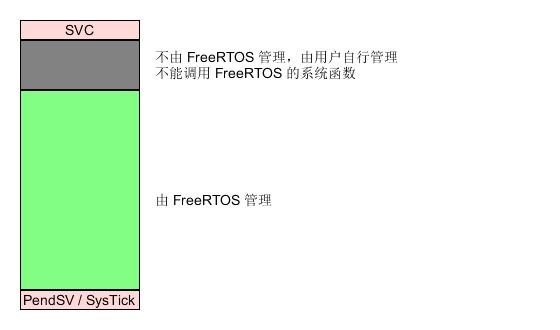
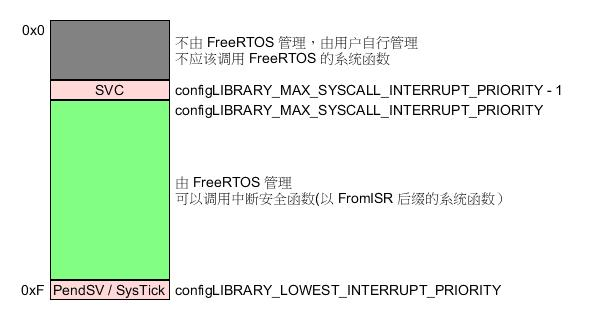
fixed issue

Changed region(s): [[0.0304, 0.0625, 0.9411, 0.9375], [0.9411, 0.25, 0.9714, 0.2812]]

diff --git a/FreeRTOS/Markdown/task_start_scheduler.md b/FreeRTOS/Markdown/task_start_scheduler.md
@@ -10,56 +10,64 @@
 
  1. 创建 IDLE 和 Tmr Svc 任务
 
-这两个任务是系统提供的默认服务。
+    这两个任务是系统提供的默认服务。
 
  2. 关闭中断
 
-此处关闭中断是为了在调度器启动的过程中不会被中断打断，在调度器启动成功后 FreeRTOS 会自动打开中断。
+    此处关闭中断是为了在调度器启动的过程中不会被中断打断，在调度器启动成功后 FreeRTOS 会自动打开中断。
 
-对于 **Cortex-M**，开关中断的代码实现如下：
+    对于 **Cortex-M**，开关中断的代码实现如下：
 
-``` C
-static portFORCE_INLINE void vPortRaiseBASEPRI( void )
-{
-uint32_t ulNewBASEPRI = configMAX_SYSCALL_INTERRUPT_PRIORITY;
+    ``` C
+    static portFORCE_INLINE void vPortRaiseBASEPRI( void )
+    {
+    uint32_t ulNewBASEPRI = configMAX_SYSCALL_INTERRUPT_PRIORITY;
 
-	__asm
-	{
-		/* Set BASEPRI to the max syscall priority to effect a critical
-		section. */
-		msr basepri, ulNewBASEPRI
-		dsb
-		isb
-	}
-}
+        __asm
+        {
+            /* Set BASEPRI to the max syscall priority to effect a critical
+            section. */
+            msr basepri, ulNewBASEPRI
+            dsb
+            isb
+        }
+    }
 
-static portFORCE_INLINE void vPortSetBASEPRI( uint32_t ulBASEPRI )
-{
-	__asm
-	{
-		/* Barrier instructions are not used as this function is only used to
-		lower the BASEPRI value. */
-		msr basepri, ulBASEPRI
-	}
-}
-```
+    static portFORCE_INLINE void vPortSetBASEPRI( uint32_t ulBASEPRI )
+    {
+        __asm
+        {
+            /* Barrier instructions are not used as this function is only used to
+            lower the BASEPRI value. */
+            msr basepri, ulBASEPRI
+        }
+    }
+    ```
 
-通过使用设置 **BASEPRI** 寄存器的方式来开关中断，该寄存器属于特殊寄存器，使用 **msr / mrs** 指令进行操作。该寄存器的用途如下：
+    通过设置 **BASEPRI** 寄存器的方式来开关中断，该寄存器属于特殊寄存器，使用 **msr / mrs** 指令进行操作。该寄存器的用途如下：
 
- - 当优先级值大于或等于 **BASEPRI** 的异常会被屏蔽。
- - 当 **BASEPRI = 0** 时，不屏蔽任何异常。
+    - 当 **exception** 的优先级大于或等于 **BASEPRI** 时，该 **exception** 会被屏蔽。
+    - 当 **BASEPRI = 0** 时，不屏蔽任何 **exception**。
 
-详情可以参考 *ARM®v7-M ArchitectureReference Manual*：
+    详情可以参考 *ARM®v7-M ArchitectureReference Manual*：
 
-![basepri][2]
+    ![basepri][2]
 
  3. 校验中断优先级
 
-FreeRTOS 的中断管理如下：
+    FreeRTOS 的中断管理如下：
 
-![interrupt priority][3]
+    ![interrupt priority][3]
 
-系统只关心 **configLIBRARY_LOWEST_INTERRUPT_PRIORITY** ~ **configLIBRARY_MAX_SYSCALL_INTERRUPT_PRIORITY** 之间的中断。高于的部分由用户自己去管理，在这部分中断中，用户不应该调用 FreeRTOS 的系统调用。
+    - 中断优先级值越小，优先级越高。
+    - 小于值 **configLIBRARY_MAX_SYSCALL_INTERRUPT_PRIORITY** 的中断由用户自行管理，不应该调用 FreeRTOS 的系统函数。
+    - FreeRTOS 只关心 **configLIBRARY_LOWEST_INTERRUPT_PRIORITY** 和 **configLIBRARY_MAX_SYSCALL_INTERRUPT_PRIORITY** 之间的中断，这部分中断中可以调用中断安全函数(以 FromISR 后缀的系统函数）。
+    - **SVC** 的中断优先级为 **configLIBRARY_MAX_SYSCALL_INTERRUPT_PRIORITY - 1**，它比所有 FreeRTOS 管理的中断的优先级都要高。
+    - **PendSV** 和 **SysTick** 的优先级最低。
+
+    对于不带MPU的 **Cortex-M**，**SVC** 的中断优先级为0，可以参看这个帖子描述了原因：
+    [Priority initialization][4]
+    > SVCall is only called to kick the scheduler off, so never called when the scheduler is actually running, so its priority is not set.
 
  4. 配置 PendSV 和 SysTick 的中断优先级
 
@@ -70,7 +78,7 @@ FreeRTOS 的中断管理如下：
 
  详情可以参考 *ARM®v7-M ArchitectureReference Manual*：
 
-![interrupt priority][4]
+![interrupt priority][5]
 
  5. 配置 Systick
 
@@ -105,7 +113,7 @@ FreeRTOS 的中断管理如下：
 
 详情可以参考 *ARM®v7-M ArchitectureReference Manual*：
 
-![interrupt priority][5]
+![interrupt priority][6]
 
  - 根据 **Cortex-M** 的定义，向量表的第一个 32Bit 数据为系统栈上电时的默认地址。（相当于我们从代码启动到运行到当前位置时所产生的栈都不需要了）
  -  这段栈的大小为 Startup.S 文件中定义的 **Stack_Size**。
@@ -160,5 +168,6 @@ FreeRTOS 的中断管理如下：
   [1]: ./images/vTaskStartScheduler.jpg
   [2]: ./images/basepri.jpg
   [3]: ./images/interrupt_priority.jpg
-  [4]: ./images/pendsv_and_systick_priority_register.jpg
-  [5]: ./images/vtor_register.jpg
+  [4]: https://sourceforge.net/p/freertos/discussion/382005/thread/1a42e593/
+  [5]: ./images/pendsv_and_systick_priority_register.jpg
+  [6]: ./images/vtor_register.jpg
